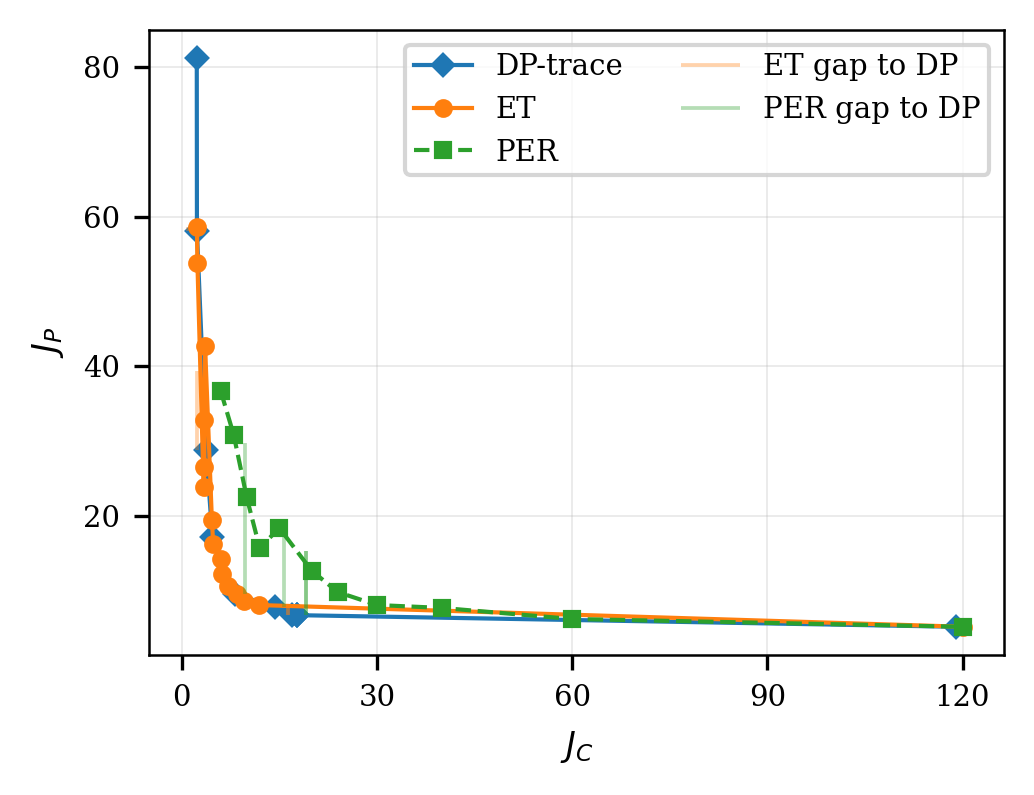
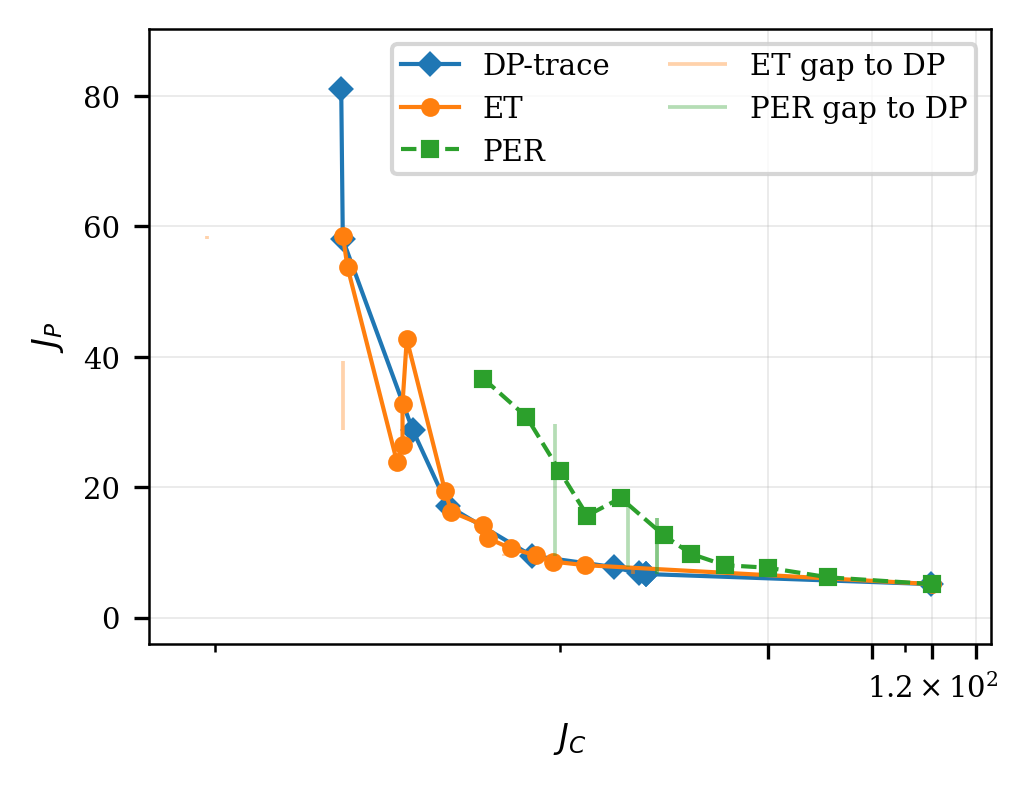
update

diff --git a/src/fris/paper_figures.py b/src/fris/paper_figures.py
@@ -206,10 +206,12 @@ def figure_A_tradeoff(cfg: SimConfig, outdir: Path) -> float:
 
     ax.set_xlabel(r"$J_C$")
     ax.set_ylabel(r"$J_P$")
+    ax.set_xscale("symlog", linthresh=0.5, linscale=0.8)
     ax.grid(True, alpha=0.3)
     ax.xaxis.set_major_locator(MaxNLocator(nbins=5))
     ax.yaxis.set_major_locator(MaxNLocator(nbins=5))
     ax.legend(loc="best", frameon=True, borderpad=0.3, ncol=2)
+    ax.margins(x=0.08, y=0.12)
 
     fig.tight_layout(pad=0.6)
     savefig(fig, outdir, "fig_A_tradeoff_curves")
